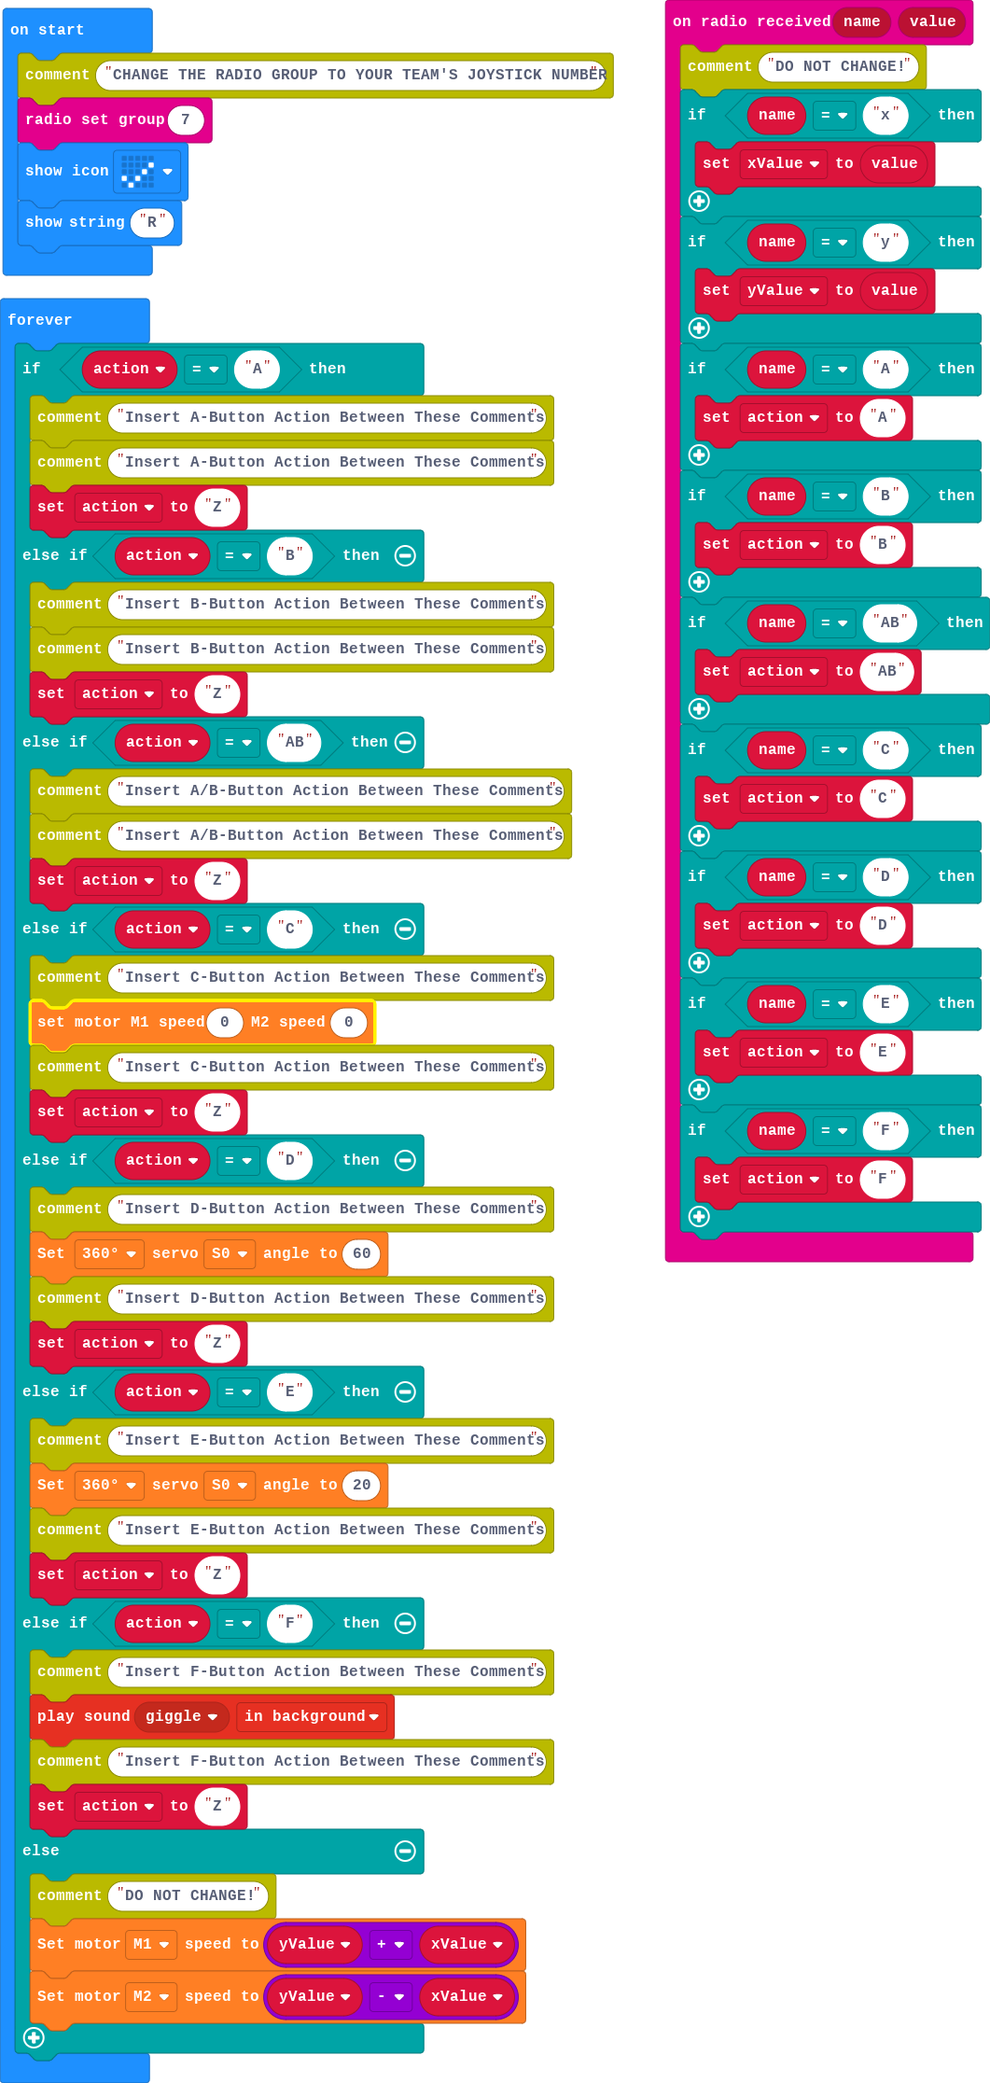
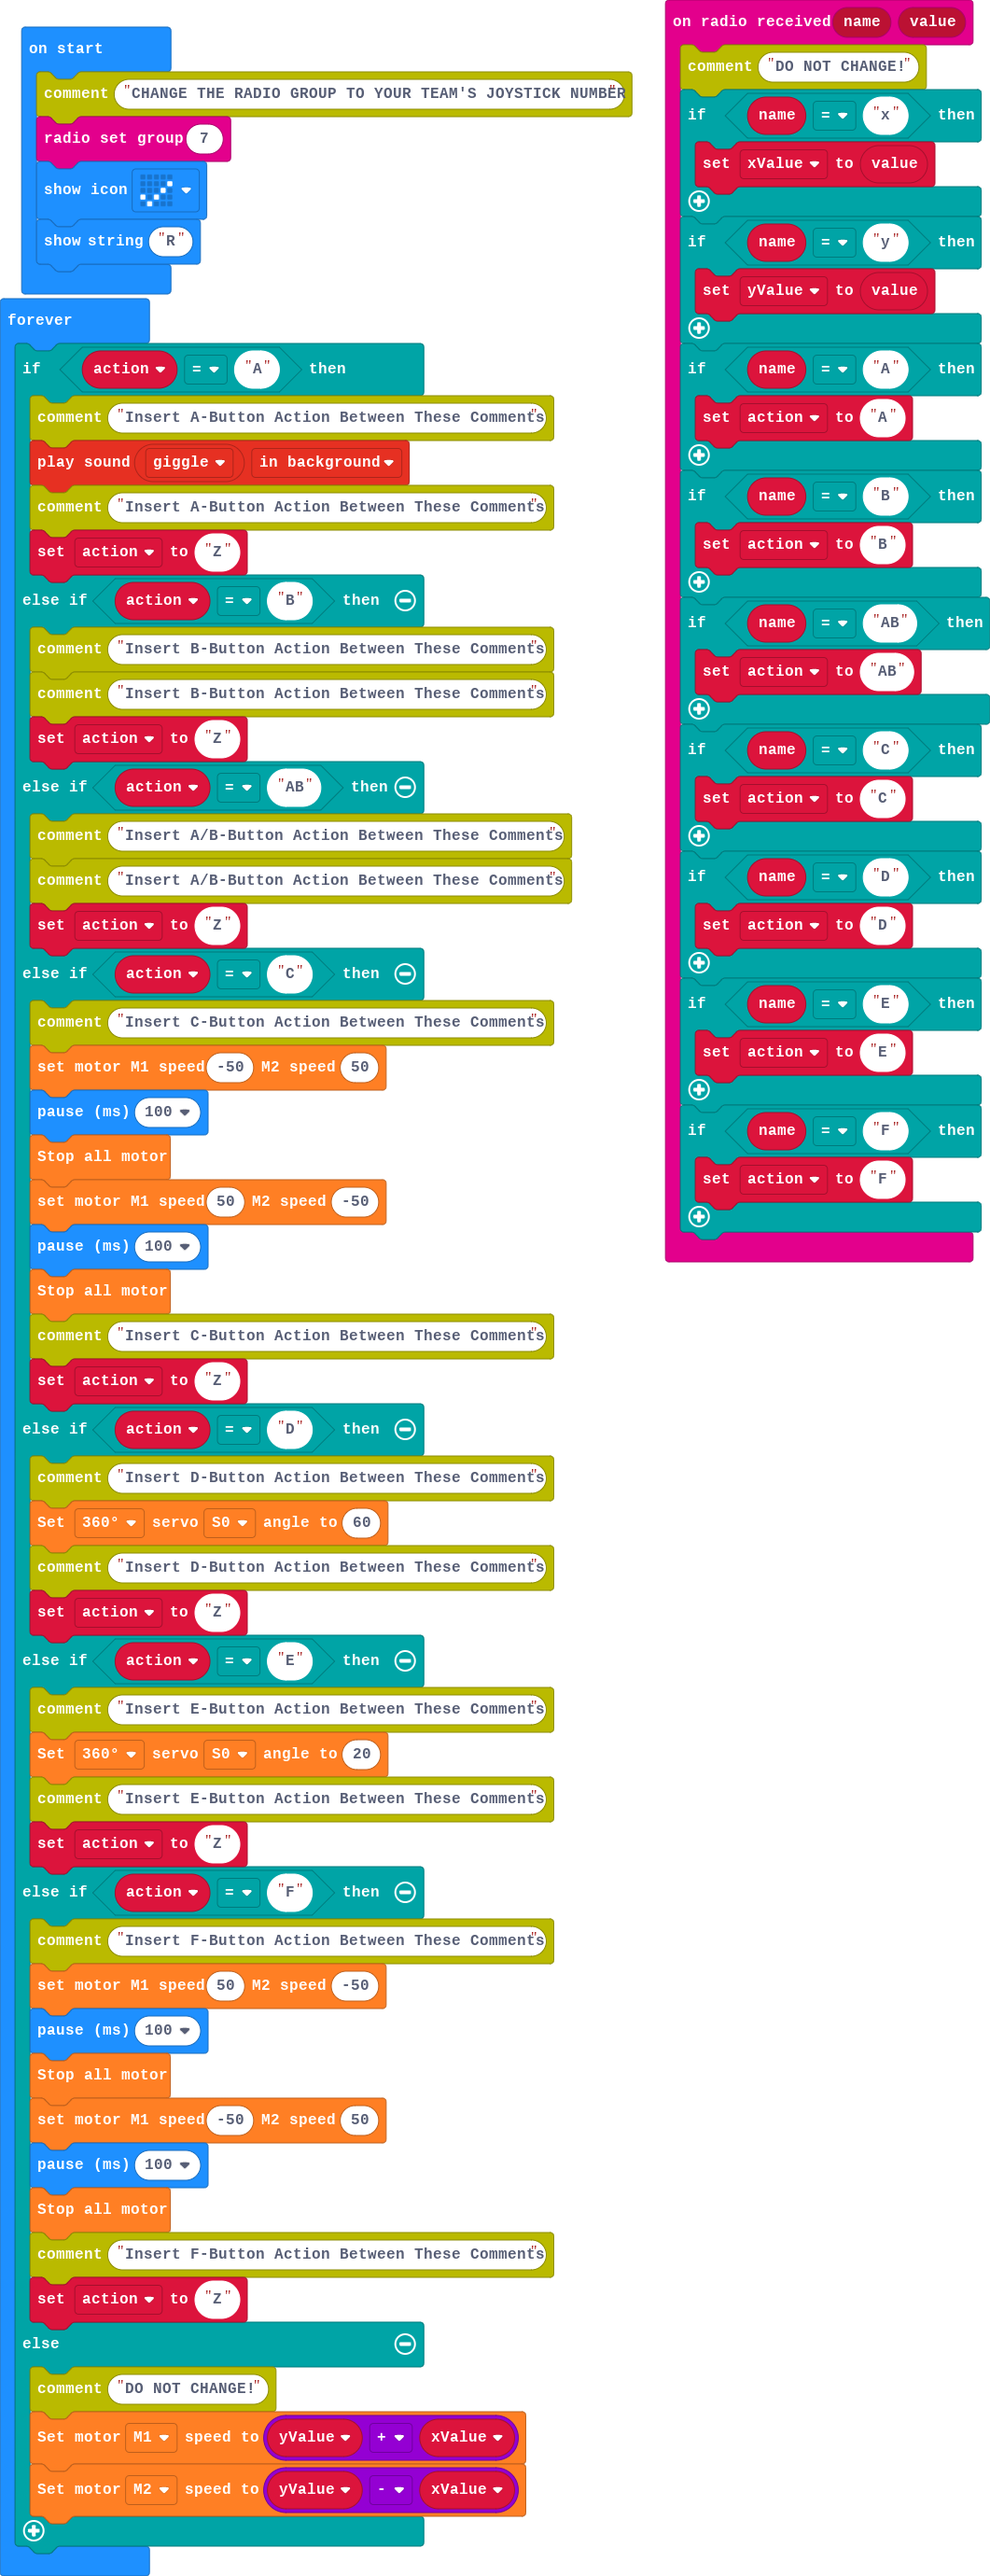
Update main.blocks, main.ts

diff --git a/main.ts b/main.ts
@@ -38,6 +38,7 @@ basic.showString("R")
 basic.forever(function () {
     if (action == "A") {
         comment.comment("Insert A-Button Action Between These Comments")
+        music.playSoundEffect(music.builtinSoundEffect(soundExpression.giggle), SoundExpressionPlayMode.InBackground)
         comment.comment("Insert A-Button Action Between These Comments")
         action = "Z"
     } else if (action == "B") {
@@ -50,7 +51,12 @@ basic.forever(function () {
         action = "Z"
     } else if (action == "C") {
         comment.comment("Insert C-Button Action Between These Comments")
-        wuKong.setAllMotor(0, 0)
+        wuKong.setAllMotor(-50, 50)
+        basic.pause(100)
+        wuKong.stopAllMotor()
+        wuKong.setAllMotor(50, -50)
+        basic.pause(100)
+        wuKong.stopAllMotor()
         comment.comment("Insert C-Button Action Between These Comments")
         action = "Z"
     } else if (action == "D") {
@@ -65,7 +71,12 @@ basic.forever(function () {
         action = "Z"
     } else if (action == "F") {
         comment.comment("Insert F-Button Action Between These Comments")
-        music.playSoundEffect(music.builtinSoundEffect(soundExpression.giggle), SoundExpressionPlayMode.InBackground)
+        wuKong.setAllMotor(50, -50)
+        basic.pause(100)
+        wuKong.stopAllMotor()
+        wuKong.setAllMotor(-50, 50)
+        basic.pause(100)
+        wuKong.stopAllMotor()
         comment.comment("Insert F-Button Action Between These Comments")
         action = "Z"
     } else {
